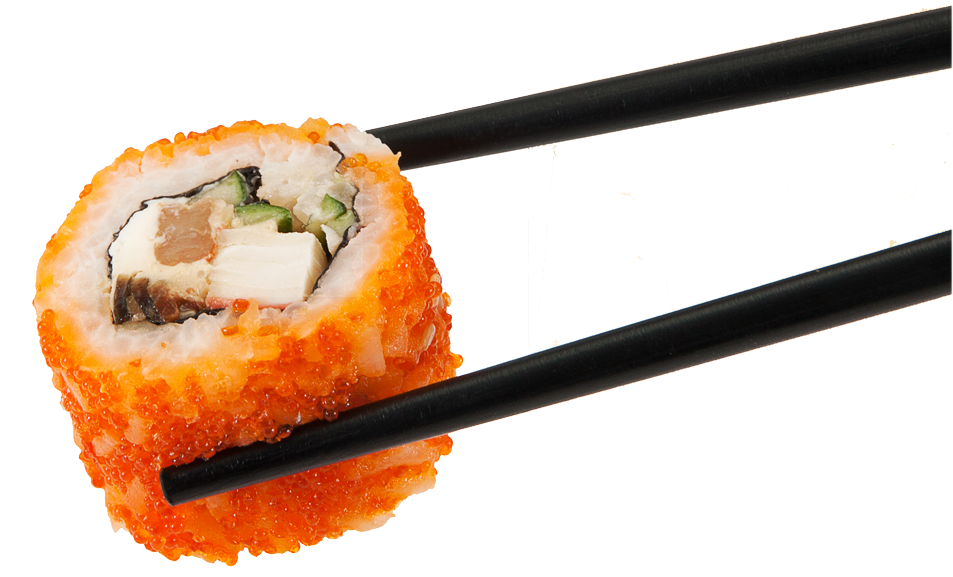
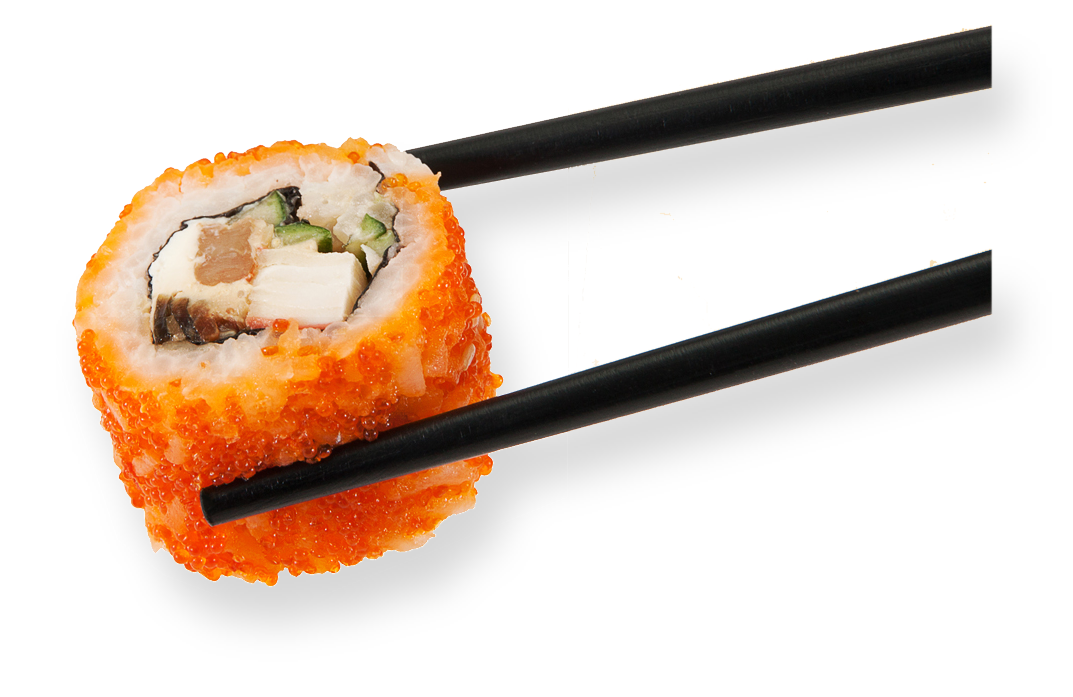
Improve sushi hero section - Add image with shadow

diff --git a/backbone/global.css b/backbone/global.css
@@ -9,7 +9,7 @@ body {
 
 .body-container {
   background-color: #fafafa;
-  margin: 60px;
+  margin: 60px 80px;
   padding: 60px 90px;
   border-radius: 40px;
 }
@@ -33,7 +33,7 @@ a {
 }
 
 .logo-text {
-  font-size: 2em;
+  font-size: 2.25em;
   text-transform: uppercase;
   font-weight: 900;
 }
@@ -75,7 +75,7 @@ a {
 }
 
 button {
-  width: 12em;
+  width: 10em;
   height: 2.7em;
   border-radius: 15px;
   background-color: white;
@@ -103,9 +103,9 @@ button:focus {
 
 #sushi-hero {
   position: absolute;
-  width: 100%;
-  max-width: 700px;
-  top: -10%;
+  width: 150%;
+  max-width: 900px;
+  top: -5vh;
   left: 90%;
 }
 
